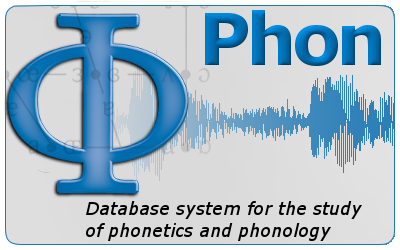
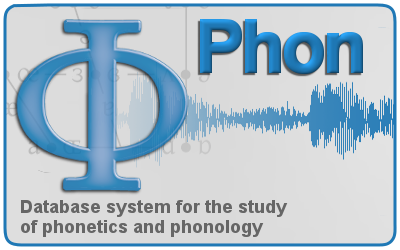
Updated splash screen

diff --git a/app/src/main/java/ca/phon/app/BootWindow.java b/app/src/main/java/ca/phon/app/BootWindow.java
@@ -87,11 +87,11 @@ public class BootWindow extends Window {
 		Font versionFont = FontPreferences.getControlFont();
 		g.setFont(versionFont);
 		
-		String vString = "Version: " + VersionInfo.getInstance().getVersion();
+		String vString = VersionInfo.getInstance().getVersion();
 		FontMetrics fm = g.getFontMetrics();
 		int vWidth = (int)fm.getStringBounds(vString, g).getWidth();
 		g.setColor(Color.black);
-		g.drawString(vString, 20, 250-20);
+		g.drawString(vString, 400-vWidth-20, 250-20);
 		
 		if(!paintCalled)
 			paintCalled = true;

diff --git a/app/src/main/java/ca/phon/app/session/editor/DefaultEditorViewModel.java b/app/src/main/java/ca/phon/app/session/editor/DefaultEditorViewModel.java
@@ -734,7 +734,7 @@ public class DefaultEditorViewModel implements EditorViewModel {
 			} else if("title.flap.active.text".equals(id)) {
 				uiValue.set(Color.white);
 			} else if("title.active.left".equals(id)) {
-				uiValue.set(new Color(0.7f, 0.7f, 0.7f));
+				uiValue.set(Color.decode("#1f78b5"));
 			} else if("title.active.right".equals(id)) {
 				uiValue.set(new Color(0.9f, 0.9f, 0.9f));
 			} else {
